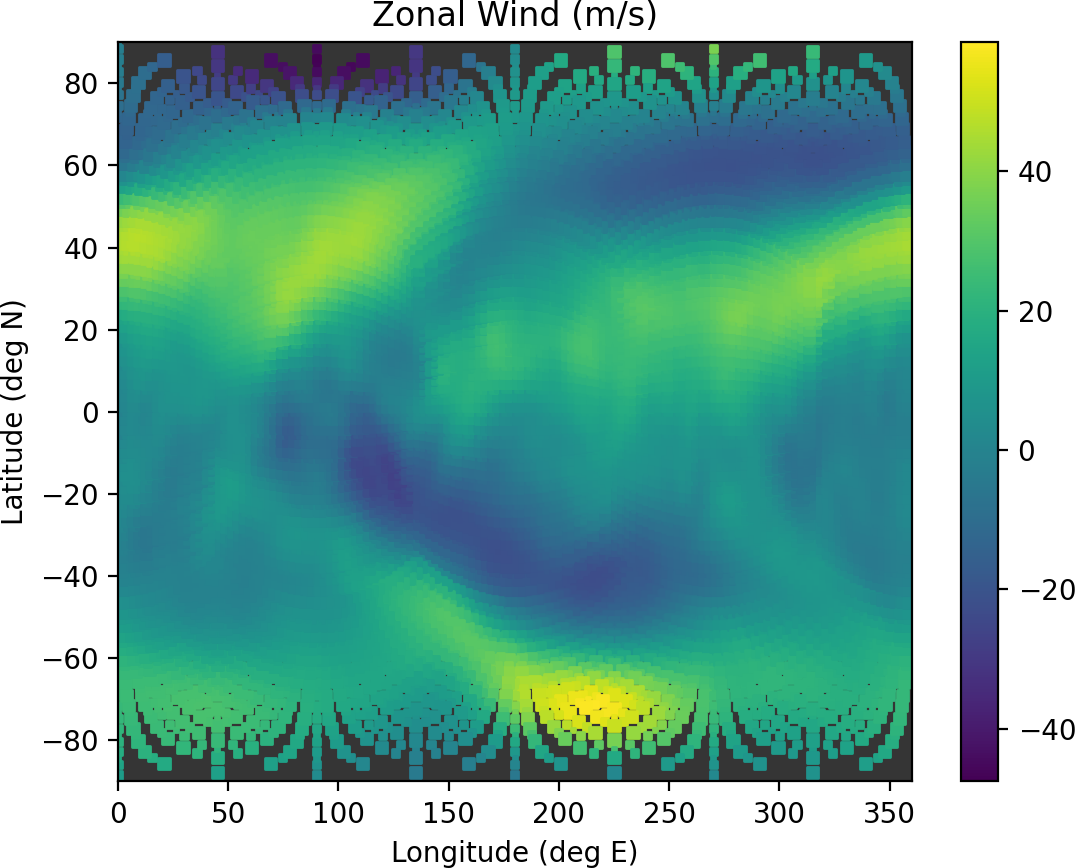
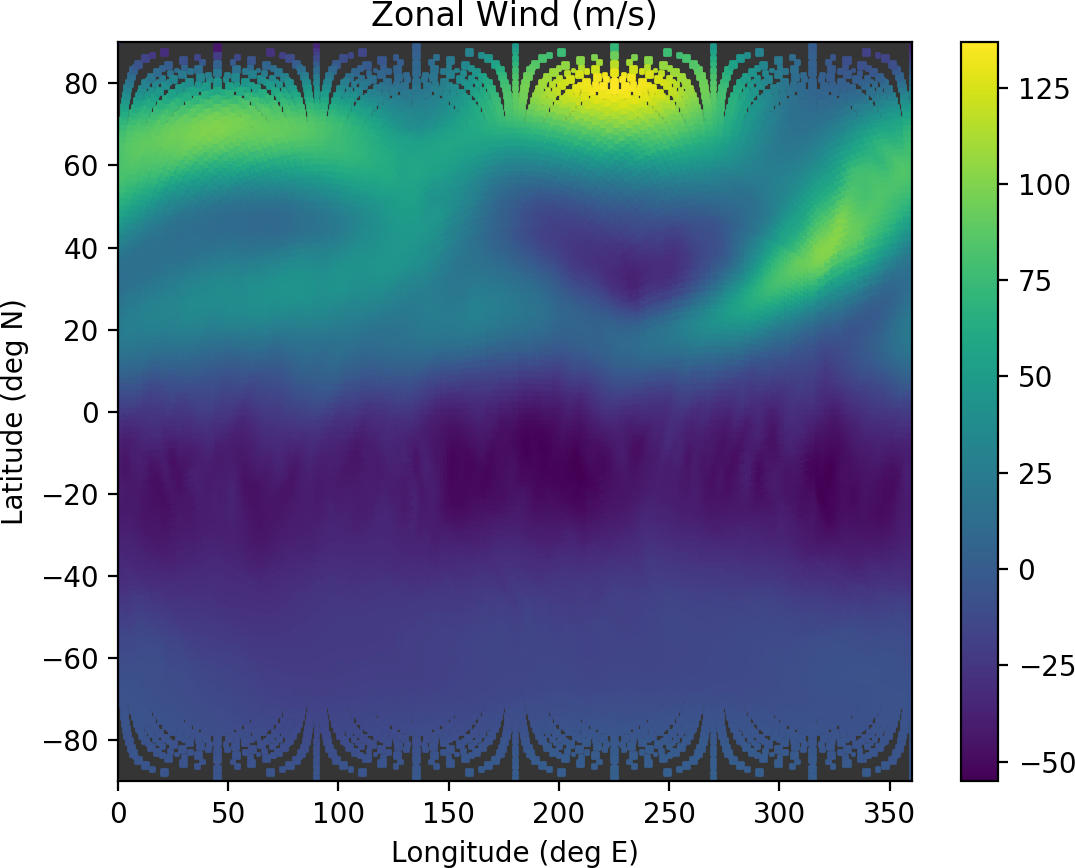
Update cube-sphere for ne30 grid

diff --git a/cube-sphere/create-newcase.rst b/cube-sphere/create-newcase.rst
@@ -76,17 +76,16 @@ build a new case.
 |                       | sea ice) and what boundary forcing will be used. CESM has an    |
 |                       | extensive list of `component set definitions                    |
 |                       | <https://www.cesm.ucar.edu/models/cesm2/config/compsets.html>`_ |
-|                       | and these instructions using the ``F2000climo`` compset, which  |
-|                       | has an active atmospheric component, the Community Atmosphere   | 
-|                       | Model version 6, perpetual sea surface temperature boundary     |
-|                       | conditions from the year 2000.                                  |
+|                       | and these instructions using the ``FHIST`` compset, which has   |
+|                       | an active atmospheric component, the Community Atmosphere Model |
+|                       | version 6, and historical sea surface forcing, staring in 1979. |
 +-----------------------+-----------------------------------------------------------------+
 | ``--res``             | The grid resolution the model will run on. Each grid includes   |
 |                       | at least two parts, the atmospheric/land grid and the ocean/sea |
 |                       | ice grid to which it is coupled. These instructions use a       |
-|                       | low-resolution cube-sphere grid for the atmosphere, ``ne16np4`` |
+|                       | low-resolution cube-sphere grid for the atmosphere, ``ne30np4`` |
 |                       | and couple it to a ~1° ocean/sea ice grid, ``gx1v7``. These     |
-|                       | grid names are truncated into ``ne16_g17``. Again, CESM         |
+|                       | grid names are truncated into ``ne30_g17``. Again, CESM         |
 |                       | has an extensive list of `available grids                       |
 |                       | <https://www.cesm.ucar.edu/models/cesm2/config/grids.html>`_.   |
 +-----------------------+-----------------------------------------------------------------+
@@ -119,18 +118,20 @@ build a new case.
    Sandy Bridge            ``pleiades-san``
    ======================  ===============================
 
+To build a case using the ~1° ``ne30`` cube sphere grid:
+
 .. code-block::
 
-   ./create_newcase --case /glade/work/johnsonb/cesm_runs/F2000climo.cesm2_2_0.ne16_g17.001 --compset F2000climo --res ne16_g17 --mach cheyenne --project PXXXXXXXX --run-unsupported
-   [ ... ]
-   Creating Case directory /glade/work/johnsonb/cesm_runs/F2000climo.cesm2_2_0.ne16_g17.001
-
+   ./create_newcase --case /glade/work/johnsonb/cesm_runs/FHIST.cesm2_2_0.ne30_g17.001 --compset FHIST --res ne30_g17 --mach cheyenne --project PXXXXXXXX --run-unsupported
+   [...]
+   Creating Case directory /glade/work/johnsonb/cesm_runs/FHIST.cesm2_2_0.ne30_g17.001
+   
 The case directory has successfully been created. Change to the case directory
 and set up the case.
 
 .. code-block::
 
-   cd /glade/work/johnsonb/cesm_runs/F2000climo.cesm2_2_0.ne16_g17.001
+   cd /glade/work/johnsonb/cesm_runs/FHIST.cesm2_2_0.ne30_g17.001
    ./case.setup
 
 The ``case.setup`` script scaffolds out the case directory, creating the
@@ -159,7 +160,7 @@ The model is actually built and run in a user's scratch space.
 
 .. code-block::
 
-   /glade/scratch/johnsonb/F2000climo.cesm2_2_0.ne16_g17.001/bld/cesm.exe
+   /glade/scratch/johnsonb/FHIST.cesm2_2_0.ne30_g17.001/bld/cesm.exe
 
 Submitting a job
 ================
@@ -168,23 +169,32 @@ To submit a job, change to the case directory and use the ``case.submit``
 script. The ``-M begin,end`` option sends the user an email when the job starts
 and stops running.
 
+When the case is built, its default configuration is to run for five model
+days. This setting can be changed to run for a single model day using 
+``./xmlchange STOP_N=1``.
+
 .. code-block::
 
-   cd /glade/work/johnsonb/cesm_runs/F2000climo.cesm2_2_0.ne16_g17.001
+   cd /glade/work/johnsonb/cesm_runs/FHIST.cesm2_2_0.ne30_g17.001
+   ./xmlchange STOP_N=1
    ./case.submit -M begin,end
    [...]
-   Submitted job case.st_archive with id 2650572.chadmin1.ib0.cheyenne.ucar.edu
+   Submitted job id is 2658061.chadmin1.ib0.cheyenne.ucar.edu
+   Submitted job case.run with id 2658060.chadmin1.ib0.cheyenne.ucar.edu
+   Submitted job case.st_archive with id 2658061.chadmin1.ib0.cheyenne.ucar.edu
 
 Restart file
 ============
 
 After the job completes, restart files are written to the run directory which
 is also in scratch space. These restart files are written for both active and
-data components. The CAM restart file contains a ``cam.r`` substring: 
+data components. The CAM restart file contains a ``cam.r`` substring. By
+default, the ``FHIST`` case begins on January 1st, 1979. Thus, the restart file
+will be for January 2nd, 1979.
 
 .. code-block::
 
-   /glade/scratch/johnsonb/F2000climo.cesm2_2_0.ne16_g17.001/run/F2000climo.cesm2_2_0.ne16_g17.001.cam.r.0001-01-06-00000.nc
+   /glade/scratch/johnsonb/FHIST.cesm2_2_0.ne30_g17.001/run/FHIST.cesm2_2_0.ne30_g17.001.cam.r.1979-01-02-00000.nc
 
 The fields in the restart file can be plotted using various langauges such as 
 MATLAB or Python's matplotlib, as seen here.
